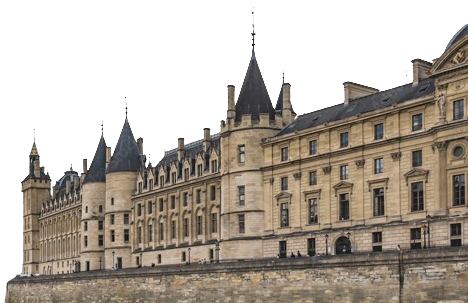
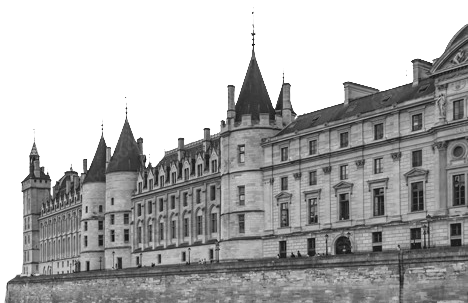
페이지2 수정중
- 사진 흑백 처리
- 디자인 시안 중 선택
- 스포트라이트 그라데이션 효과 필요
- 제목 영문 변경 후 폰트 결정

diff --git a/common/pages.css b/common/pages.css
@@ -103,26 +103,26 @@
 
 .contents .page2 .desc .title{
   position: relative;
-  top: 347px;
-  left: 75%;
-  font-size: 4.5rem;
+  top: 550px;
+  left: 66%;
+  font-size: 5rem;
   /* color: #dfdfdf; */
   z-index: 1;
 }
 .contents .page2 .desc .synop1{
   position: relative;
   width: 38%;
-  top: 419px;
+  top: 620px;
   left: 55%;
-  text-align: right;
+  text-align: left;
   z-index: 1;
 }
 .contents .page2 .desc .synop2{
   position: relative;
   width: 38%;
-  top: 472px;
-  left: 8%;
-  text-align: left;
+  top: 666px;
+  left: 55%;
+  text-align: right;
   z-index: 1;
 }
 .contents .page2 .desc .synop1 h1,.contents .page2 .desc .synop2 h1{
@@ -134,13 +134,9 @@
   font-size: 1.5rem;
   text-align: justify;
 }
-.contents .page2 .desc .synop2 div{
-  color: #dfdfdf;
-}
-
 .contents .page2 .imgContainer1{
   position: relative;
-  top: -501px;
+  top: -300px;
   height: 665px;
 }
 .contents .page2 .imgContainer1 .figure{
@@ -158,30 +154,26 @@
   background: url(../images/1.png) center / contain no-repeat;
   /* outline: 2px solid;*/
 }
-
 .contents .page2 .imgContainer2{
   position: relative;
-  top: -501px;
+  top: -301px;
   height: 665px;
 }
-
 .contents .page2 .imgContainer2 .img2{
   position: absolute;
-  width: 800px;
+  width: 802px;
   height: 520px;
-  left: 46%;
   /* outline: 2px solid; */
   background:  url(../images/2.png) center / contain no-repeat;
-  transform: scaleY(-1);
+  transform: scale(-1);
 }
-
 .contents .page2 .imgContainer2 .figure{
   position: absolute;
   clip-path: polygon(109% 0%, 0% 100%, 100% 100%);
   background-color: #C1C1C1;
   width: 100%;
   height: 100%;
-  transform: scale(-1, -1);
+  transform: scaleY(-1);
 }
 
 

diff --git a/index.html b/index.html
@@ -49,7 +49,7 @@
         <!-- 두번째 페이지 -->
         <div class="page2">
           <div class="desc">
-            <h1 class="title fontKdg">시놉시스</h1>
+            <h1 class="title fontLibre_Bold">Synopsys</h1>
             <div class="synop1">
               <h1 class="fontNotoSerif_Bold">1960년, 중국 베이징</h1>
               <div class="fontScoreDream">프랑스 영사관 직원 '르네 갈리마르'는 오페라 &lt;나비부인&gt;의 자결 장면을 부르는 우아한 자태의 중국배우 '송 릴링'을 보고 첫눈에 매료된다. 어느 날, 송의 편지를 받고 찾아간 르네에게 송은 충격적인 비밀을 고백하며 마음을 전한다. 송과의 만남이 지속될수록 르네는 미처 몰랐던 남성성과 우월감을 드러내며 자신이 꿈꿔왔던 순종적이고 ‘완벽한’ 애인에게 빠져들고...</div>
